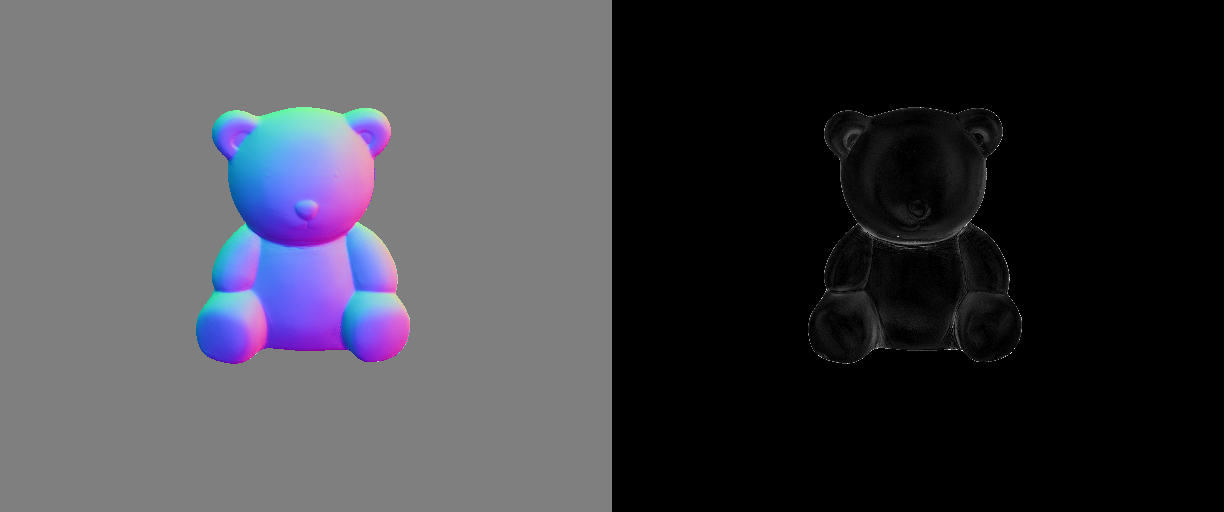
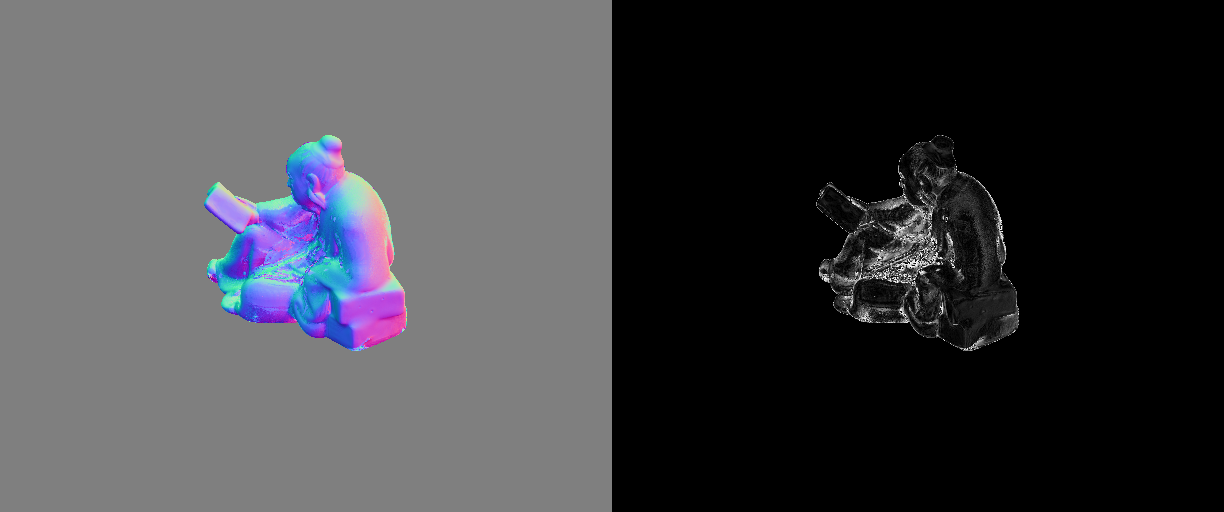
重构test：一次测试全部图片，并自定义保存文件路径，自动保存MAE结果

Changed region(s): [[0.1552, 0.1875, 0.3415, 0.7188], [0.652, 0.2188, 0.8382, 0.6875]]

diff --git a/test.py b/test.py
@@ -1,74 +1,144 @@
-# Copyright 2018, Satoshi Ikehata, National Institute of Informatics (sikehata@nii.ac.jp)
-
-import importlib
-import numpy as np
-import pydot
 import os
+import cv2
+import math
+import numpy as np
 import keras
 from keras import backend as K
-from keras.utils.vis_utils import plot_model
-from keras.models import load_model
-from keras.utils import multi_gpu_model
 from mymodule import deeplearning_IO as dio
-from mymodule import cnn_models as cm  # <---【新增这一行】
-from PIL import Image
+from mymodule import cnn_models as cm
 import matplotlib
-matplotlib.use('Agg') # 强制不显示窗口，只保存图片【新增】防止在服务器上报错
-import matplotlib.pyplot as plt
 
-# NOTICE!!
-# bearPNG has problem in first 20 images, so please discard first 20 information from Sv Nv Rv IDv Szv if you want the result from the paper
-# harvestPNG has problem in the order of values in normal.txt, so you need flip the surface normal map upside down
+matplotlib.use('Agg')
 
-def main():
-    isParallel = False # one if multi gpu is available
-    dirlist = []
-    # 测试数据集
-    diligent = '/data/qsy/Datasets/DiLiGenT/pmsData'
-
-    # Set the directory list
-    # objlist = ('ballPNG','bearPNG','buddhaPNG','catPNG','cowPNG','gobletPNG','harvestPNG','pot1PNG','pot2PNG','readingPNG')
-    objlist = (['bearPNG'])
+# === 全局配置 ===
+W = 32
+K_ROT = 10
+SCALE = 1
 
 
-
-    for f in objlist:
-        dirlist.append(diligent + '/' + f)
-    print(dirlist)
-
-    # Prepare images
-    scale = 1 # downsize the image by this scale
-    w = 32 # size of observation map
-    # 【修改点 1】将 K 改名为 K_rot，避免覆盖 keras.backend 的 K
-    K_rot = 10 # the number of different rotations for the rotational pseudo-invariance
-
-    # 【修改点 2】在调用函数时，使用新的变量名 K_rot
-    # [Sv, Nv, Rv, IDv, Szv] = dio.prep_data_2d_from_images_test(dirlist, scale, w, K_rot) # Comment this line when runnning test on bearPNG
-    [Sv, Nv, Rv, IDv, Szv] = dio.prep_data_2d_from_images_test(dirlist, scale, w, K_rot, index = range(20, 96)) # Uncomment this if you want to use the subset of images (in this case, 20-th to 96-th images are input)
-    # Load pretrained model
-    #model = load_model('weight_and_model.hdf5') 注释并替换为下面修改内容
-    # ------------------ 修改开始 ------------------
-    # 由于 Python 版本不同 (3.5 vs 3.8)，直接 load_model 会报 bad marshal data
-    # 解决方案：手动构建模型结构，然后只加载权重
-
-    # 根据 train.py 的逻辑，w=32
-    w = 32
-
-    # 判断数据格式 (TensorFlow 默认通常是 channels_last)
+def load_model_once(weights_path='weight_and_model_user.hdf5'):
+    print(f"🏗  Loading model from {weights_path}...")
     if K.image_data_format() == 'channels_first':
-        print("Building model (channels_first)...")
-        model = cm.get_densenet_2d_channel_first_2dense(w, w)
+        model = cm.get_densenet_2d_channel_first_2dense(W, W)
     else:
-        print("Building model (channels_last)...")
-        model = cm.get_densenet_2d_channel_last_2dense(w, w)
+        model = cm.get_densenet_2d_channel_last_2dense(W, W)
+    model.load_weights(weights_path)
+    return model
 
-    # 加载权重
-    print("Loading weights...")
-    model.load_weights('weight_and_model_user.hdf5')
-    # ------------------ 修改结束 ------------------
 
-    # Test network
-    dio.TestNetwork(model,Sv,Nv,Rv,IDv,Szv,showFig=0,isTensorFlow=1) # showFig=0：关闭实时显示
+def test_one_object(model, obj_full_path, output_dir=None):
+    """
+    测试单个物体：预测、融合、算误差、保存图片
+    """
+    # 获取物体名字 (用于文件名)
+    obj_name = os.path.basename(obj_full_path.rstrip('/'))
+
+    # 1. 准备数据 (调用 dio)
+    try:
+        # dio 会自动处理 bearPNG (只要不传 index)
+        [Sv, Nv, Rv, IDv, Szv] = dio.prep_data_2d_from_images_test([obj_full_path], SCALE, W, K_ROT)
+    except Exception as e:
+        print(f"❌ Data load failed for {obj_name}: {e}")
+        return None
+
+    # 提取单张数据
+    S, N_gt_flat, R, ID = Sv[0], Nv[0], Rv[0], IDv[0]
+    height, width = Szv[0, 0], Szv[0, 1]
+    rotdiv = S.shape[1]
+
+    # 2. 预测循环 (Test Time Augmentation)
+    NestList = []
+
+    # print(f"   Running {rotdiv} rotations...")
+    for r in range(rotdiv):
+        # 取出第 r 个旋转角度的数据
+        embed_div = S[:, r, :, :]
+
+        # 适配维度
+        if K.image_data_format() == 'channels_last':
+            embed_div = np.reshape(embed_div, (-1, W, W, 1))
+        else:
+            embed_div = np.reshape(embed_div, (-1, 1, W, W))
+
+        # --- 核心预测 ---
+        outputs = model.predict(embed_div)
+
+        # --- 反向旋转 (Rotate Back) ---
+        # 构造反旋转矩阵
+        rot_mat = R[r, :, :]  # (2, 2)
+        inv_rot = np.linalg.inv(rot_mat)
+
+        # 此时 outputs 是 (Batch, 3) -> (nx, ny, nz)
+        # 我们只旋转 xy，z 不变
+        n_xy = outputs[:, 0:2].T  # (2, Batch)
+        n_xy_back = np.dot(inv_rot, n_xy)  # (2, Batch)
+
+        # 拼回 (nx, ny, nz)
+        n_rotated = np.zeros_like(outputs)
+        n_rotated[:, 0] = n_xy_back[0, :]
+        n_rotated[:, 1] = n_xy_back[1, :]
+        n_rotated[:, 2] = outputs[:, 2]
+
+        # 存入列表等待平均
+        NestList.append(n_rotated)
+
+    # 3. 融合 (Vector Average)
+    # 形状: (10, Batch, 3) -> Mean -> (Batch, 3)
+    NestMean = np.mean(np.array(NestList), axis=0)
+
+    # 归一化
+    norm = np.sqrt(np.sum(NestMean ** 2, axis=1, keepdims=True))
+    NestMean = NestMean / (norm + 1e-6)
+
+    # 4. 计算误差 (MAE)
+    # 取出真值 (N_gt_flat 已经包含了旋转维度 [Batch, 10, 3]，我们取第0个角度作为 GT)
+    # 注意：dio 返回的 Nv 形状通常是 (Batch, RotDiv, 3) 或者 (Batch, 3)
+    # 根据之前的报错经验，这里直接取数据即可，不需要 ID 索引，因为 Nv 已经是 Valid Set
+    if N_gt_flat.ndim == 3:
+        gt_valid = N_gt_flat[:, 0, :]  # 取第0个旋转角度
+    else:
+        gt_valid = N_gt_flat  # 如果只有2维，直接用
+
+    # 计算点积 -> 角度
+    dot = np.sum(NestMean * gt_valid, axis=1)
+    dot = np.clip(dot, -1.0, 1.0)
+    err_deg = np.arccos(np.abs(dot)) * 180.0 / np.pi
+    mae = np.mean(err_deg)
+
+    # 5. 生成并保存图片
+    if output_dir:
+        if not os.path.exists(output_dir):
+            os.makedirs(output_dir)
+
+        # 还原全尺寸法线图
+        full_pred = np.zeros((height * width, 3), dtype=np.float32)
+        full_pred[ID] = NestMean
+        img_pred = full_pred.reshape((height, width, 3))
+
+        # 还原全尺寸误差图
+        full_err = np.zeros((height * width), dtype=np.float32)
+        full_err[ID] = err_deg
+        img_err = full_err.reshape((height, width))
+
+        # 可视化处理
+        # 法线: [-1,1] -> [0,255]
+        vis_n = np.clip(127 * (img_pred + 1), 0, 255).astype(np.uint8)
+        # 误差: 放大5倍显示 (0~50度映射为0~255)
+        vis_e = np.clip(5 * np.dstack([img_err] * 3), 0, 255).astype(np.uint8)
+
+        # 拼接: 左法线，右误差
+        concat = np.concatenate((vis_n, vis_e), axis=1)
+
+        # 保存
+        save_name = f"{obj_name}_MAE_{mae:.2f}.png"
+        save_path = os.path.join(output_dir, save_name)
+        cv2.imwrite(save_path, cv2.cvtColor(concat, cv2.COLOR_RGB2BGR))
+        # print(f"   💾 Saved: {save_name}")
+
+    return mae
+
 
 if __name__ == '__main__':
-    main()
+    # 单独运行时的逻辑
+    model = load_model_once()
+    test_one_object(model, '/data/qsy/Datasets/DiLiGenT/pmsData/ballPNG', './test_results_single')

diff --git a/test_all.py b/test_all.py
@@ -1,0 +1,59 @@
+import os
+import csv
+import numpy as np
+import test  # 导入上面的 test.py
+
+# === 配置 ===
+DILIGENT_ROOT = '/data/qsy/Datasets/DiLiGenT/pmsData'
+RESULT_DIR = './test_results_all'  # 结果保存总目录
+WEIGHTS_PATH = 'weight_and_model_user.hdf5'
+
+OBJ_LIST = ['ballPNG', 'bearPNG', 'buddhaPNG', 'catPNG', 'cowPNG',
+            'gobletPNG', 'harvestPNG', 'pot1PNG', 'pot2PNG', 'readingPNG']
+
+
+def main():
+    # 1. 加载模型
+    model = test.load_model_once(WEIGHTS_PATH)
+
+    # 2. 准备结果目录
+    if not os.path.exists(RESULT_DIR):
+        os.makedirs(RESULT_DIR)
+
+    summary = []
+    print(f"\n{'Object':<15} | {'MAE':<10}")
+    print("-" * 30)
+
+    # 3. 循环测试
+    for obj_name in OBJ_LIST:
+        full_path = os.path.join(DILIGENT_ROOT, obj_name)
+
+        # 为每个物体创建一个子文件夹 (可选，如果想都堆在一起，就传 RESULT_DIR)
+        # 这里演示：都存在 test_results_final/ 下，文件名带前缀
+
+        # === 调用 test.py ===
+        mae = test.test_one_object(model, full_path, output_dir=RESULT_DIR)
+
+        if mae is not None:
+            print(f"{obj_name:<15} | {mae:.4f}")
+            summary.append({'Object': obj_name, 'MAE': mae})
+        else:
+            print(f"{obj_name:<15} | Failed")
+
+    # 4. 统计与保存 CSV
+    if summary:
+        avg_mae = np.mean([x['MAE'] for x in summary])
+        print("-" * 30)
+        print(f"{'AVERAGE':<15} | {avg_mae:.4f}")
+
+        csv_path = os.path.join(RESULT_DIR, 'summary_mae.csv')
+        with open(csv_path, 'w', newline='') as f:
+            writer = csv.DictWriter(f, fieldnames=['Object', 'MAE'])
+            writer.writeheader()
+            writer.writerows(summary)
+            writer.writerow({'Object': 'AVERAGE', 'MAE': avg_mae})
+        print(f"\n📄 Summary saved: {csv_path}")
+
+
+if __name__ == '__main__':
+    main()

diff --git a/mymodule/deeplearning_IO.py b/mymodule/deeplearning_IO.py
@@ -329,6 +329,15 @@ def prep_data_2d_from_images_test(dirlist, scale, w, rotdiv, index=-1):
         nml = cv2.resize(nml, None, fx = scale, fy = scale, interpolation = cv2.INTER_NEAREST)
 
         # nml = np.flipud(nml) # Uncomment when test on Harvest, the surface noraml needs to be fliped upside down
+        # ================= [一劳永逸修复补丁] =================
+        # 自动检测是否是 harvestPNG，如果是，强制翻转法线
+        # 获取当前文件夹的名字
+        current_obj_name = os.path.basename(dirpath.rstrip('/'))
+
+        if 'harvestPNG' in current_obj_name:
+            print(f"   🔧 自动检测到 {current_obj_name}: 已修正法线方向 (Flip Upside-Down)")
+            nml = np.flipud(nml)
+        # ====================================================
 
         nShape = np.shape(nml)
         height = nShape[0]
@@ -507,3 +516,7 @@ def TestNetwork(model, Sv,Nv,Rv,IDv,Szv,showFig, isTensorFlow):
 
         print('  -> Image saved to: %s' % save_name)
         # ------------------ 修改结束 ------------------
+        # ============ 【请添加这一行】 ============
+        # 把计算出的平均误差返回，方便外部统计
+        return error / len(ID)
+        # ========================================
